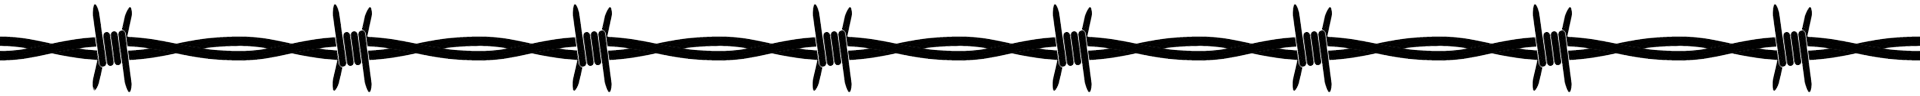
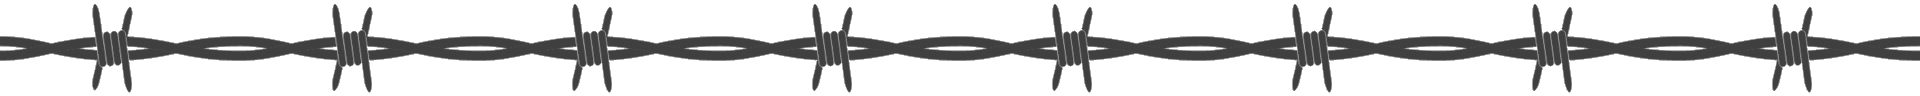
Footer dividers and home page divider update

Changed region(s): [[0.0, 0.0938, 1.0, 0.875]]

diff --git a/static/css/base.css b/static/css/base.css
@@ -86,7 +86,7 @@ nav ul li a.active {
 footer {
     display: flex;
     justify-content: space-between;
-    align-items: flex-start;
+    align-items: stretch; /* <-- changed from flex-start to stretch */
     background-color: #1a1a1a;
     color: #f5c518;
     padding: 20px;
@@ -98,9 +98,12 @@ footer {
 
 footer .footer-section {
     flex: 1;
-    min-width: 150px;
     text-align: center;
     margin: 0 10px;
+    display: flex;
+    flex-direction: column;
+    justify-content: center; /* optional: center content vertically */
+    height: 100%;
 }
 
 footer .footer-section h4 {
@@ -143,6 +146,30 @@ footer .footer-section p.full {
 
 footer .footer-section p.short {
     display: none;
+}
+
+footer .footer-section.tot {
+    position: relative;
+}
+
+footer .footer-section.tot::before,
+footer .footer-section.tot::after {
+    content: "";
+    position: absolute;
+    top: 20%;
+    bottom: 20%;
+    width: 2px;
+    background: #f5c518;
+    border-radius: 1px;
+    opacity: 0.8;
+}
+
+footer .footer-section.tot::before {
+    left: -15px;
+}
+
+footer .footer-section.tot::after {
+    right: -15px;
 }
 
 /* Responsive Design */
@@ -223,5 +250,10 @@ footer .footer-section p.short {
 
     main, header, footer {
         max-width: 95%;
+    }
+
+    footer .footer-section.tot::before,
+    footer .footer-section.tot::after {
+        display: none;
     }
 }

diff --git a/templates/base.html b/templates/base.html
@@ -61,7 +61,7 @@
             <p class="full">BuNker11<br>54-60 Heene Rd<br>Worthing, West Sussex, BN11 3RG</p>
             <p class="short">BuNker11<br>54-60 Heene Rd<br>Worthing</p>
         </div>
-        <div class="footer-section">
+        <div class="footer-section tot">
             <h4>TOT Social Media</h4>
             <ul>
                 <li><a href="https://www.facebook.com/p/TOT-Presents-100083193887876/" target="_blank"><img src="{{ url_for('static', filename='images/footer/facebook-icon.png') }}" alt="Facebook">Facebook</a></li>
@@ -69,7 +69,7 @@
                 <li><a href="https://www.youtube.com/channel/UCDvFWE_kn242G_JzyuC_StA" target="_blank"><img src="{{ url_for('static', filename='images/footer/youtube-icon.png') }}" alt="YouTube">YouTube</a></li>
             </ul>
         </div>
-        <div class="footer-section">
+        <div class="footer-section hammerdown">
             <h4>Hammerdown Social Media</h4>
             <ul>
                 <li><a href="https://www.facebook.com/HammerdownFestival" target="_blank"><img src="{{ url_for('static', filename='images/footer/facebook-icon.png') }}" alt="Facebook">Facebook</a></li>

diff --git a/templates/home.html b/templates/home.html
@@ -27,7 +27,7 @@
 
 <!-- Barbed Wire Divider -->
 <div class="divider barbed-wire">
-  <img src="/static/images/barb2.png" alt="Barbed Wire Divider" />
+  <img src="/static/images/barb.png" alt="Barbed Wire Divider" />
 </div>
 
 

diff --git a/static/css/home.css b/static/css/home.css
@@ -76,7 +76,7 @@
     display: flex;
     flex-direction: column;
     justify-content: space-between;
-    height: 450px;
+    height: 550px;
     background-color: #1a1a1a;
     border-radius: 5px;
     border-color: white;
